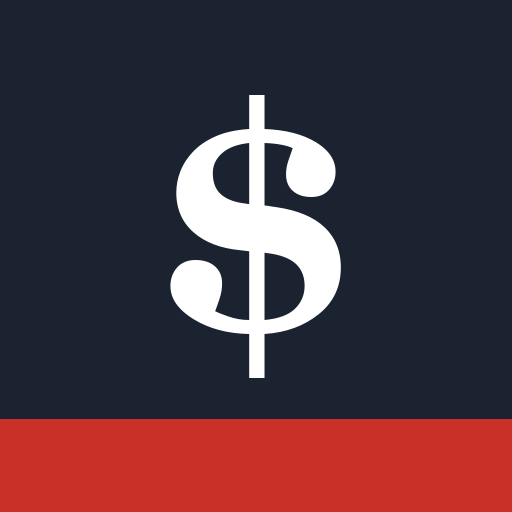
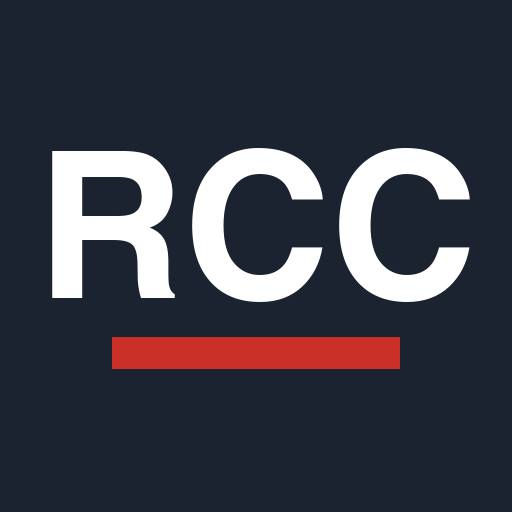
nome do app: RCC (Revenue and Cost Control), novo ícone

diff --git a/index.html b/index.html
@@ -6,11 +6,11 @@
 <meta name="apple-mobile-web-app-capable" content="yes">
 <meta name="mobile-web-app-capable" content="yes">
 <meta name="apple-mobile-web-app-status-bar-style" content="black-translucent">
-<meta name="apple-mobile-web-app-title" content="Despesas">
+<meta name="apple-mobile-web-app-title" content="RCC">
 <meta name="theme-color" content="#1A232F">
 <link rel="apple-touch-icon" href="icone-180.png">
 <link rel="manifest" href="manifest.webmanifest">
-<title>Receitas e Despesas</title>
+<title>RCC</title>
 <style>
   @font-face{font-family:"Source Serif 4";font-style:normal;font-weight:600 700;font-display:swap;src:url(fonte.woff2) format("woff2")}
   :root{
@@ -250,8 +250,8 @@ if (LANG) document.documentElement.lang = LANGS[LANG].loc;
 
 // cada texto: [português, english, español]
 const D = {
-  app: ["Receitas e Despesas", "Revenue and Expenses", "Ingresos y Gastos"],
-  selo: ["{e} · Receitas e Despesas · app local", "{e} · Revenue and Expenses · local app", "{e} · Ingresos y Gastos · app local"],
+  app: ["RCC · Receitas e Custos no Controle", "RCC · Revenue and Cost Control", "RCC · Ingresos y Costos bajo Control"],
+  selo: ["{e} · RCC · app local", "{e} · RCC · local app", "{e} · RCC · app local"],
   off_t: ["Sem conexão com o Mac.", "No connection to the Mac.", "Sin conexión con la Mac."],
   off_d: [" O iPhone precisa estar no Wi-Fi de casa e o Mac ligado com o app aberto. O que você lançar agora fica guardado no iPhone e vai para o Mac quando voltar a conexão.", " The iPhone must be on the home Wi-Fi and the Mac must be on. Whatever you enter now is kept on the iPhone and sent to the Mac when the connection is back.", " El iPhone debe estar en el Wi-Fi de casa y la Mac encendida. Lo que registres ahora se guarda en el iPhone y se envía a la Mac cuando vuelva la conexión."],
   pend_1: ["⏳ {n} lançamento aguardando envio ao Mac.", "⏳ {n} entry waiting to be sent to the Mac.", "⏳ {n} registro esperando envío a la Mac."],
@@ -687,7 +687,7 @@ const novoId = () => { const b = new Uint8Array(16); crypto.getRandomValues(b); 
 const numero = v => { const n = parseFloat(String(v ?? "").replace(/[^0-9.]/g, "")); return isFinite(n) ? Math.round(n * 100) / 100 : 0; };
 
 // ---------- empresa (logo e nome) e horas ----------
-const nomeEmp = () => (S.config.empresa && S.config.empresa.nome) || "Receitas e Despesas";
+const nomeEmp = () => (S.config.empresa && S.config.empresa.nome) || "RCC";
 const logoUrl = () => (S.config.empresa && S.config.empresa.logo_v) ? (LOCAL ? window.RD_LOCAL.logoUrl : `/logo?v=${S.config.empresa.logo_v}`) : "";
 function fotoSrc(n, cheia) {
   if (!LOCAL) return "/fotos/" + n;
@@ -856,8 +856,8 @@ function telaIdioma() {
   return `
   <div class="barra">
     <div class="nav">${marca()}<span></span></div>
-    <h2>Receitas e Despesas</h2>
-    <div class="sub">Revenue and Expenses · Ingresos y Gastos</div>
+    <h2>RCC</h2>
+    <div class="sub">Receitas e Custos no Controle · Revenue and Cost Control</div>
   </div>
   <div class="conteudo">
     <p class="grande-titulo">Escolha o idioma<br><span style="color:var(--muted);font-size:17px">Choose your language · Elige el idioma</span></p>

diff --git a/sw.js b/sw.js
@@ -1,5 +1,5 @@
 /* Service worker: guarda o app no iPhone para abrir sem internet. Nunca guarda dados do usuário (esses ficam no IndexedDB). */
-const VERSAO = "rd-pwa-v4";
+const VERSAO = "rd-pwa-v5";
 const ARQUIVOS = ["./", "index.html", "rd-local.js", "manifest.webmanifest", "icone-180.png", "icone-512.png", "fonte.woff2",
   "vendor/exceljs.min.js", "vendor/jszip.min.js", "vendor/tesseract/tesseract.min.js", "vendor/tesseract/worker.min.js",
   "vendor/tesseract/tesseract-core-relaxedsimd-lstm.wasm.js", "vendor/tesseract/tesseract-core-simd-lstm.wasm.js", "vendor/tesseract/tesseract-core-lstm.wasm.js", "vendor/tesseract/eng.traineddata.gz"];
